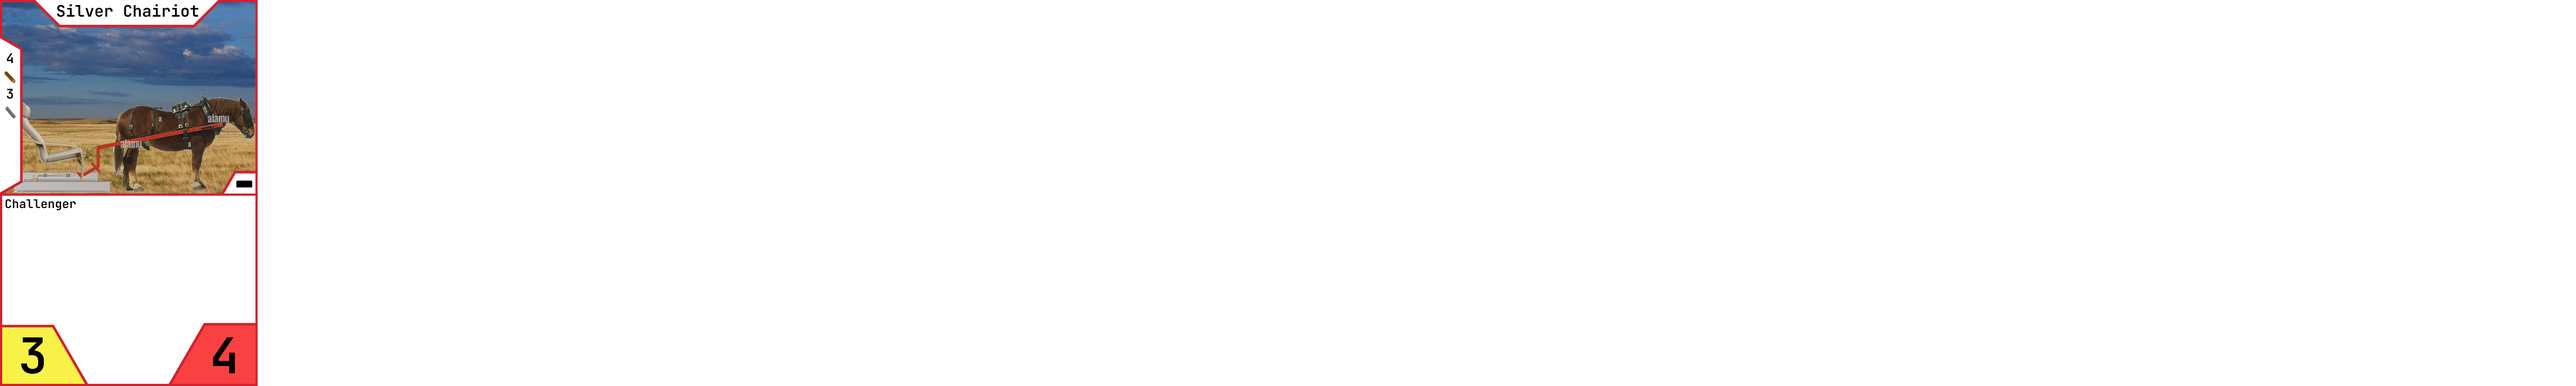
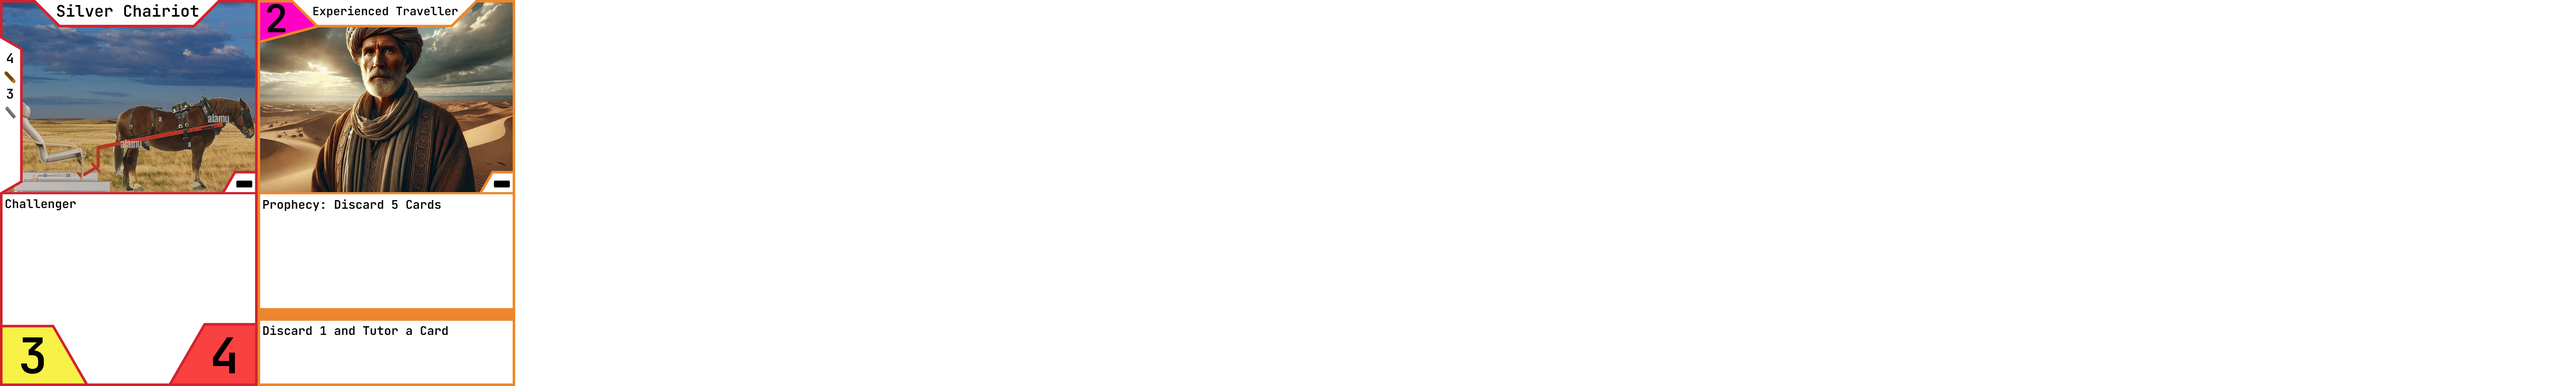
Fixed rect borders

Changed region(s): [[0.0, 0.0, 0.2179, 0.5577], [0.0934, 0.7746, 0.2179, 0.8676], [0.0, 0.9915, 0.2179, 1.0]]

diff --git a/src/routes/index.tsx b/src/routes/index.tsx
@@ -89,7 +89,7 @@ export default function Home() {
     if(!rowsRef || !codeRef) return;
     container()!.innerHTML = "";
     for(const row of rowsRef) {
-      const copies = row[17+countIndex()];
+      const copies = row[headerMap()["count"]-1+countIndex()];
       if(copies > 0) {
         for (let i = 0; i < copies; i++) {
           const card = parseCode(codeRef, row);
@@ -164,6 +164,7 @@ const parseCode = (code: { key: string, value: string[]}[], row: string[]) => {
   let fontColor = "#000000";
   let fontAlign = "center";
   let htmlFont = {fontFamily: "JetBrains Mono", fontSize: "12", fontFlag: "T", fontColor: "#000000", fontAlign: "center"};
+  let borderWidth = 0;
 
   // console.log(row);
 
@@ -206,16 +207,17 @@ const parseCode = (code: { key: string, value: string[]}[], row: string[]) => {
         break;
       case "rectangle":
         const rect = document.createElement("div");
+        if(parseUnit(value[7]).endsWith("%")) borderWidth = parsePercentage(parseUnit(value[7]))*710;
+        else borderWidth = unitToPx(parseUnit(value[7]));
         rect.style.position = "absolute";
-        rect.style.left = parseUnit(value[1]);
-        rect.style.top = parseUnit(value[2]);
-        rect.style.width = parseUnit(value[3]);
-        rect.style.height = parseUnit(value[4]);
+        rect.style.left = parsePercentage(parseUnit(value[1]))*710-borderWidth/2+"px";
+        rect.style.top = parsePercentage(parseUnit(value[2]))*1065-borderWidth/2+"px";
+        rect.style.width = parsePercentage(parseUnit(value[3]))*710+borderWidth+"px";
+        rect.style.height = parsePercentage(parseUnit(value[4]))*1065+borderWidth+"px";
         rect.style.borderColor = value[5];
         rect.style.backgroundColor = value[6];
         if(value[6] == "empty") rect.style.backgroundColor = "transparent";
-        if(parseUnit(value[7]).endsWith("%")) rect.style.borderWidth = parsePercentage(parseUnit(value[7]))*710/2+"px";
-        else rect.style.borderWidth = cmToPx(parseUnit(value[7]))+"px";
+        rect.style.borderWidth = borderWidth+"px";
         rect.style.borderStyle = 'solid';
         card.appendChild(rect);
         break;
@@ -276,7 +278,7 @@ const parseCode = (code: { key: string, value: string[]}[], row: string[]) => {
         poly.setAttribute("points", points);
         poly.style.stroke = value[7];
         poly.style.fill = value[8];
-        poly.style.strokeWidth = cmToPx(parseUnit(value[9]))+"px";
+        poly.style.strokeWidth = unitToPx(parseUnit(value[9]))+"px";
         svg.appendChild(poly);
         card.appendChild(svg);
         break;
@@ -291,7 +293,7 @@ const parseCode = (code: { key: string, value: string[]}[], row: string[]) => {
           const image = images[c];
           if(!image) return c;
           if(image.url.startsWith("C:")) return c;
-          return `<img src="${toLocalUrl(image.url)}" width="${cmToPx(image.width)}" height="${cmToPx(image.height)}" style="vertical-align:middle;${image.flags}">`;
+          return `<img src="${toLocalUrl(image.url)}" width="${unitToPx(image.width)}" height="${unitToPx(image.height)}" style="vertical-align:middle;${image.flags}">`;
         });
         html.style.left = parseUnit(value[2]);
         html.style.top = parseUnit(value[3]);
@@ -361,8 +363,10 @@ const parsePercentage = (value: string) => {
   return parseFloat(value)/100;
 }
 
-const cmToPx = (value: string | number) => {
+const unitToPx = (value: string | number) => {
   if(typeof value === 'number') return value/6*710;
+  if(value == "") return 0;
+  if(value.endsWith("%")) return parsePercentage(value)*710;
   return parseFloat(value)/6*710;
 }
 
